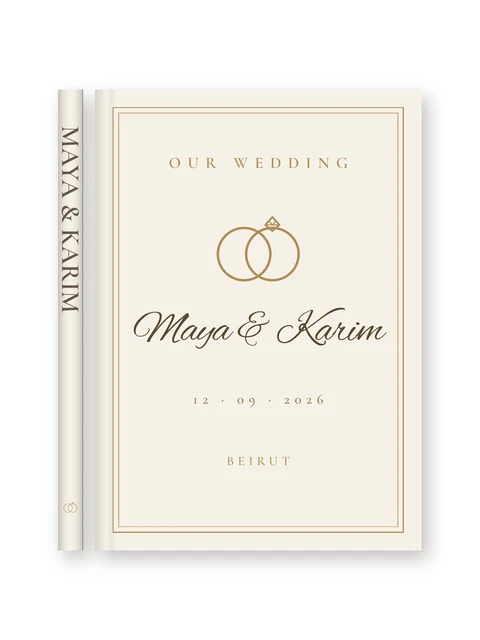
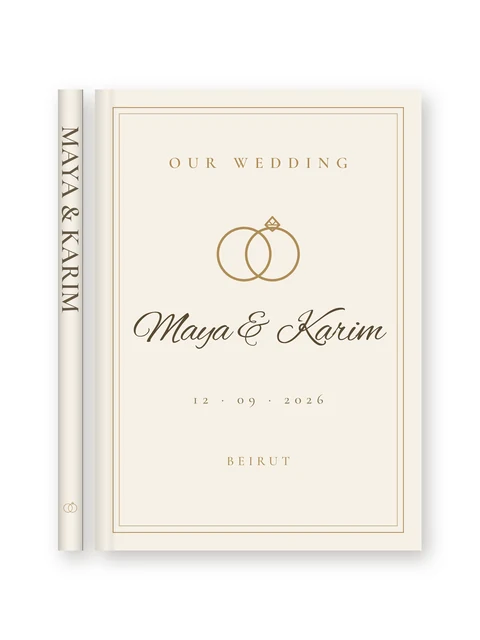
Ivory & Gold: the double frame is one element, moved, resized or recoloured as a whole
Claude-Session: https://claude.ai/code/session_019iW3qNmH4N4x87DfLWtU9k

Changed region(s): [[0.25, 0.1875, 0.8438, 0.8438]]

diff --git a/frontend/src/lib/coverThemes.js b/frontend/src/lib/coverThemes.js
@@ -66,6 +66,11 @@ function lineItem(box, color, id = `line-${box.x}-${box.y}`) {
   return { id, type: "shape", shape_type: "rect", fill_color: color, ...box };
 }
 
+// A double-line frame, one element (see CoverShape.jsx).
+function frameItem(box, color) {
+  return { id: "frame", type: "shape", shape_type: "frame", fill_color: color, ...box };
+}
+
 function textItem(id, content, opts = {}) {
   return {
     id,
@@ -425,14 +430,7 @@ export const COVER_THEMES = [
           spine_logo_image: WEDDING_RINGS_ICON,
           spine_logo_x: 0.1, spine_logo_y: 0.86, spine_logo_w: 0.8, spine_logo_h: 0.08,
           extra_items: [
-            lineItem({ x: 0.053, y: 0.038, w: 0.894, h: 0.0024 }, "#B08D57", "frame-top"),
-            lineItem({ x: 0.053, y: 0.9596, w: 0.894, h: 0.0024 }, "#B08D57", "frame-bottom"),
-            lineItem({ x: 0.053, y: 0.038, w: 0.0033, h: 0.924 }, "#B08D57", "frame-left"),
-            lineItem({ x: 0.9437, y: 0.038, w: 0.0033, h: 0.924 }, "#B08D57", "frame-right"),
-            lineItem({ x: 0.07, y: 0.05, w: 0.86, h: 0.0024 }, "#CDB487", "frame-inner-top"),
-            lineItem({ x: 0.07, y: 0.9476, w: 0.86, h: 0.0024 }, "#CDB487", "frame-inner-bottom"),
-            lineItem({ x: 0.07, y: 0.05, w: 0.0033, h: 0.9 }, "#CDB487", "frame-inner-left"),
-            lineItem({ x: 0.9267, y: 0.05, w: 0.0033, h: 0.9 }, "#CDB487", "frame-inner-right"),
+            frameItem({ x: 0.053, y: 0.038, w: 0.894, h: 0.924 }, "#B08D57"),
             textItem("occasion", "OUR WEDDING", { x: 0.1, y: 0.14, w: 0.8, h: 0.05, font: CORMORANT, font_weight: "600", font_size: 21, letter_spacing: 0.42, color: "#B08D57", text_align: "center" }),
             iconItem(WEDDING_RINGS_ICON, "wedding_rings", { x: 0.31, y: 0.25, w: 0.38, h: 0.175 }),
             textItem("date", "12 · 09 · 2026", { x: 0.1, y: 0.655, w: 0.8, h: 0.045, font: CORMORANT, font_weight: "500", font_size: 18.5, letter_spacing: 0.35, color: "#8A7350", text_align: "center" }),

diff --git a/frontend/src/components/book/CoverFrontPage.jsx b/frontend/src/components/book/CoverFrontPage.jsx
@@ -2,6 +2,7 @@ import React, { useRef, useState, useEffect } from "react";
 import { AutoFitText } from "@/components/book/AutoFitText";
 import { CenterGuides } from "@/components/book/CenterGuides";
 import { DraggableItem } from "@/components/book/DraggableItem";
+import { ShapeInner, shapeStyle } from "@/components/book/CoverShape";
 import { REFERENCE_PAGE_PX, measureDomTextWidth } from "@/components/book/textMeasure";
 import { useElementWidth } from "@/components/book/useElementWidth";
 import { useFitTitleFontSize } from "@/components/book/useFitTitleFontSize";
@@ -442,12 +443,9 @@ export function CoverFrontPage({
               editable={editable}
               tid={`cover-shape-${item.id}`}
               onDragStateChange={(d) => setDraggingId(d ? item.id : null)}
-              extraStyle={{
-                background: item.fill_color || accent,
-                borderRadius: item.shape_type === "circle" ? "9999px" : "0",
-              }}
+              extraStyle={shapeStyle(item, accent)}
             >
-              <div className="w-full h-full pointer-events-none" />
+              <ShapeInner item={item} accent={accent} />
             </DraggableItem>
           );
         }

diff --git a/frontend/src/components/book/CoverBackPage.jsx b/frontend/src/components/book/CoverBackPage.jsx
@@ -2,6 +2,7 @@ import React, { useRef, useState } from "react";
 import { ImagePlus } from "lucide-react";
 import { CenterGuides } from "@/components/book/CenterGuides";
 import { DraggableItem } from "@/components/book/DraggableItem";
+import { ShapeInner, shapeStyle } from "@/components/book/CoverShape";
 import { REFERENCE_PAGE_PX } from "@/components/book/textMeasure";
 import { coverItemImageSrc } from "@/lib/api";
 import { CoverPhotoItem, isCoverPhoto } from "@/components/book/CoverPhotoItem";
@@ -132,12 +133,9 @@ export function CoverBackPage({
               editable={editable}
               tid={`cover-back-shape-${item.id}`}
               onDragStateChange={(d) => setDraggingId(d ? item.id : null)}
-              extraStyle={{
-                background: item.fill_color || accent,
-                borderRadius: item.shape_type === "circle" ? "9999px" : "0",
-              }}
+              extraStyle={shapeStyle(item, accent)}
             >
-              <div className="w-full h-full pointer-events-none" />
+              <ShapeInner item={item} accent={accent} />
             </DraggableItem>
           );
         }

diff --git a/frontend/src/components/book/CoverShape.jsx b/frontend/src/components/book/CoverShape.jsx
@@ -1,0 +1,29 @@
+import React from "react";
+
+// A cover shape: a filled rectangle or circle, or a frame — a double line
+// around a box (the Ivory & Gold wedding cover), one element to move,
+// resize or recolour as a whole. Its colour is fill_color, like the others.
+// Line widths are in cqw (share of the cover's width), so they print the
+// same at any size.
+const FRAME_LINE = 0.33;
+const FRAME_GAP = 1.7;
+
+export function shapeStyle(item, accent) {
+  if (item.shape_type === "frame") {
+    return { background: "transparent", border: `${FRAME_LINE}cqw solid ${item.fill_color || accent}` };
+  }
+  return {
+    background: item.fill_color || accent,
+    borderRadius: item.shape_type === "circle" ? "9999px" : "0",
+  };
+}
+
+export function ShapeInner({ item, accent }) {
+  if (item.shape_type !== "frame") return <div className="w-full h-full pointer-events-none" />;
+  return (
+    <div
+      className="absolute pointer-events-none"
+      style={{ inset: `${FRAME_GAP}cqw`, border: `${FRAME_LINE}cqw solid ${item.fill_color || accent}`, opacity: 0.6 }}
+    />
+  );
+}
